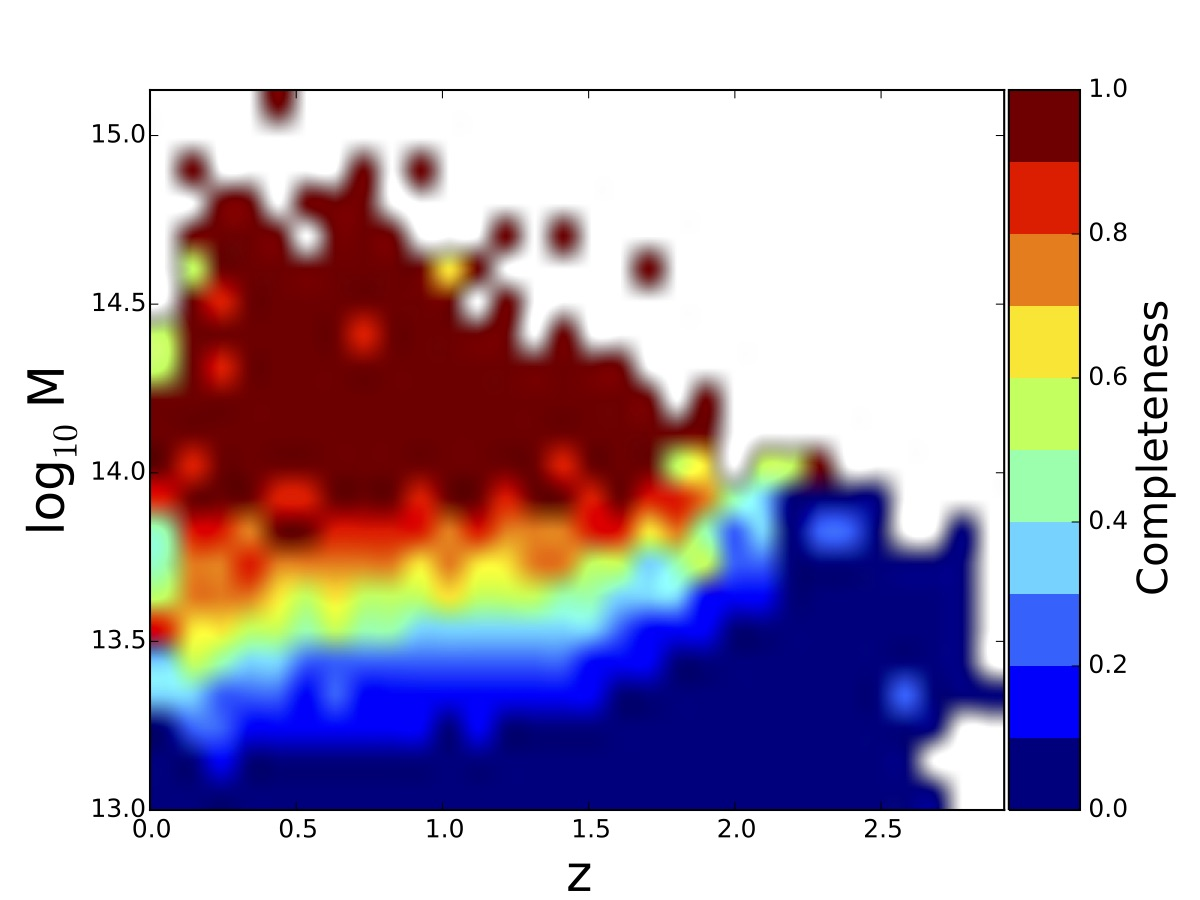
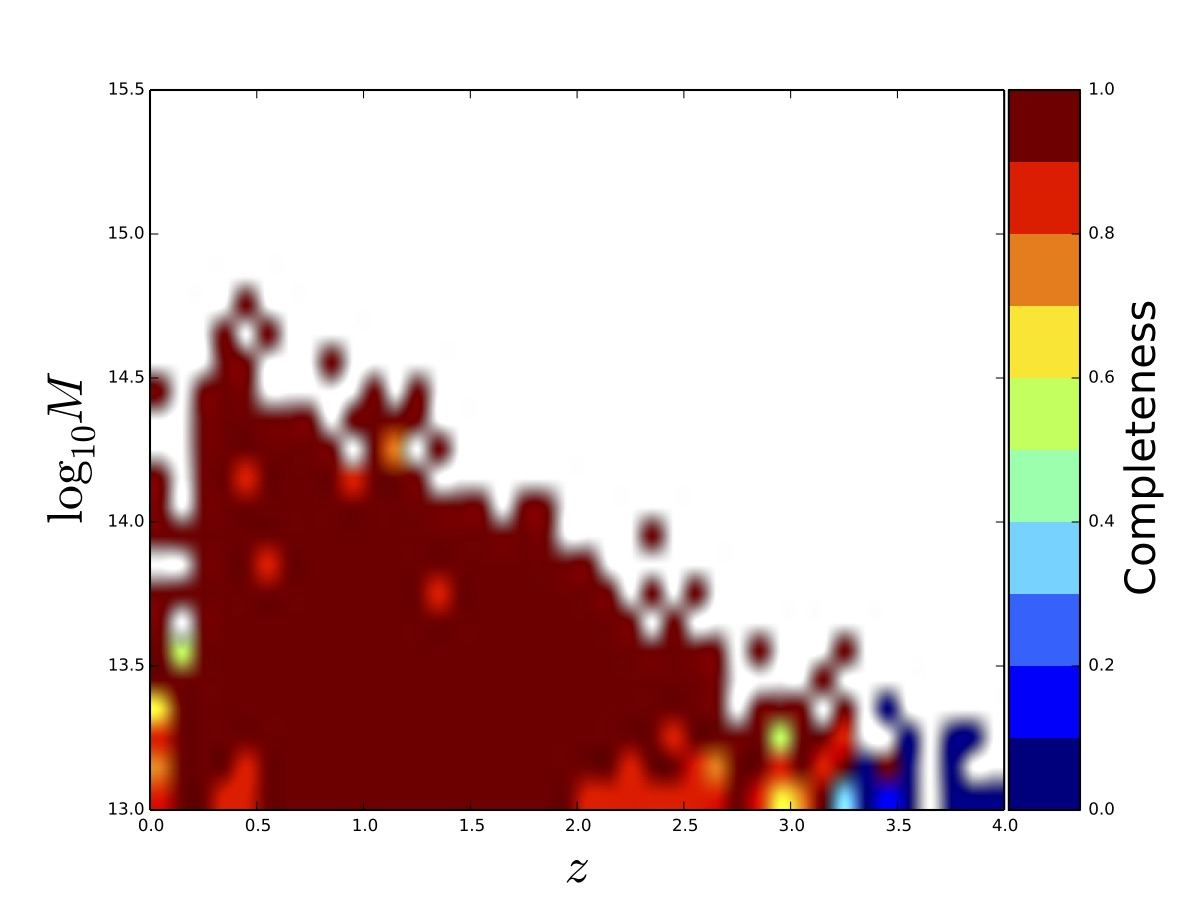
Added plots and updated markdown.

diff --git a/README.md b/README.md
@@ -1,17 +1,19 @@
 PYCYMATCH
 ==================
 
-@author Samuel Farrens
+Author: Samuel Farrens  
 
 Contents
 ------------
 1. [Introduction](#intro_anchor)
 2. [Dependenies](#depend_anchor)
+3. [Input](#in_anchor)
 3. [Execution](#exe_anchor)
+4. [Output](#out_anchor)
 
 <a name="intro_anchor"></a>
-Introduction
-------------
+# Introduction
+
 Pycymatch (versions 4 & 5) is a cylindrical matching code for identifying
 matches between a catalogue of simulated dark matter haloes populated with
 galaxies and the results of a cluster detection algorithm run on said
@@ -38,8 +40,7 @@ docs folder. Additionally, version 5 and all its dependencies adhere to PEP8
 style guidelines.
 
 <a name="depend_anchor"></a>
-Dependencies
-------------
+# Dependencies
 
 The code requires the following Python packages:
 
@@ -49,18 +50,19 @@ The code requires the following Python packages:
 
 * <a href="http://matplotlib.org/" target="_blank">Matplotlib</a>
 
-<a name="exe_anchor"></a>
-Execution
-------------
+<a name="in_anchor"></a>
+# Input
 
-**Input Format**
+### Input Files
 
-The expected inputs for both versions of the code are two ASCII files:
+The expected inputs for both versions of the code are the following two files (in ASCII):
 
 1. The mock halo catalogue.
 2. A catalogue of cluster detections.
 
-*Mock Halo Catalogue Format:*
+The column values required for each of these files are described in the following subsections. Note, however, that the order of the properties provided are the code defaults. If needed the order can be altered using the code options described further down.
+
+### Mock Halo Catalogue Format
 
 For the mock halo catalogue the codes expect to find the following properties
 in the following order:
@@ -78,7 +80,7 @@ in the following order:
 11. Min Dec: `(Minimum halo member Dec)`
 12. Max Dec: `(Maximum halo member Dec)`
 
-*Cluster Detection Catalogue Format:*
+### Cluster Detection Catalogue Format
 
 For the detection catalogue the codes expect to find the following properties
 in the following order:
@@ -90,35 +92,10 @@ in the following order:
 5. Ngal: `(The number of galaxy members in the cluster)`
 6. SNR: `(The signal-to-noise ratio of the cluster)`
 
-**Outputs**
+<a name="exe_anchor"></a>
+# Execution
 
-Both codes output the following plots:
-
-* Completeness vs. mass and redshift.
-* Completeness vs. Ngal (halo) and redshift.
-* Purity vs. Ngal (detection) and redshift.
-
-![Example Figure1](figures/completeness_mass_plot.jpg "Example Figure")
-
-![Example Figure2](figures/purity_plot.jpg "Example Figure")
-
-
-Additional version 4 outputs:
-
-* SNR vs. mass and redshift.
-* Spearman's rank order correlation coefficient vs. redshift.
-* List of all mock haloes and corresponding detection matches.
-* List of all detections and corresponding halo matches.
-
-Additional version 5 outputs:
-
-* Cluster mass observable (lambda) vs. mass in bins of redshift.
-* Histograms of mass in bins of redshift.
-* Histograms of lambda in bins of mass and redshift.
-* Mass-observable matrices in bins of redshift.
-* List of matched haloes and corresponding detections.
-
-**Running the Codes**
+### Running the Codes
 
 The codes can be run as executables by changing the file permissions
 and specifying the path to Python (this is first line of the
@@ -127,7 +104,9 @@ e.g.:
 
 > \>\> chmod +x pycymatch_v5.py
 
-Otherwise to run the code symply run Python e.g:
+> \>\> pycymatch_v5.py
+
+Otherwise to run the code symply run with Python e.g:
 
 > \>\> python pycymatch_v5.py
 
@@ -135,7 +114,7 @@ Help and a list of arguments are provided with the `--help` option e.g:
 
 > \>\> python pycymatch_v5.py --help
 
-**Examples**
+### Examples
 
 To find matches with dz = 0.05 with version 4:
 
@@ -149,13 +128,79 @@ To find non-unique matches with version 5:
 
 > \>\> python pycymatch_v5.py -i DETECTIONS_FILE MOCK_FILE -z 0.05
 
-**Code Options**
+### Code Options
 
 The following screenshots show the available options for both versions of the
 code.
 
-![V4 Figure](figures/v4_options.jpg "V4 options")
+<img src=figures/v4_options.jpg width=400>
 
-![V% Figure](figures/v5_options.jpg "V5 5ptions")
+<img src=figures/v5_options.jpg width=400>
 
 *NOTE: A full description of code options will be added in the future.*
+
+<a name="out_anchor"></a>
+Output
+------------
+
+### Basic Outputs
+
+Both versions of the code output the following plots:
+
+* **Completeness vs. mass and redshift.**
+
+e.g.
+<img src=figures/completeness_mass_plot.jpg width=400>
+
+* **Completeness vs. Ngal (halo) and redshift.**
+
+e.g.
+<img src=figures/completeness_ngal_plot.jpg width=400>
+
+* **Purity vs. Ngal (detection) and redshift.**
+
+e.g.
+<img src=figures/purity_plot.jpg width=400>
+
+### Additional Version 4 Outputs
+
+Plots not included in version 5:
+
+* **SNR vs. mass and redshift.**
+
+e.g.
+<img src=figures/sn_plot.jpg width=400>
+
+* **Spearman's rank order correlation coefficient vs. redshift.**
+
+e.g.
+<img src=figures/spear_plot.jpg width=400>
+
+Version 4 also outputs the following text files with the matches between mock haloes and detections:
+
+* List of all mock haloes and corresponding detection matches.
+* List of all detections and corresponding halo matches.
+
+### Additional Version 5 Outputs
+
+New plots provided in version 5:
+
+* **Cluster mass observable (lambda) vs. halo mass in bins of redshift.**
+
+e.g.
+<img src=figures/mass_obs_plot.jpg width=400>
+
+* **Histograms of halo mass in bins of redshift.**
+
+e.g.
+<img src=figures/mass_func_plot.jpg width=400>
+
+* **Histograms of lambda in bins of mass and redshift.**
+
+e.g.
+<img src=figures/nlambda_plot.jpg width=400>
+
+Version 5 outputs the following text files that differ from version 4:
+
+* Mass-observable matrices in bins of redshift.
+* List of matched haloes and corresponding detections.
